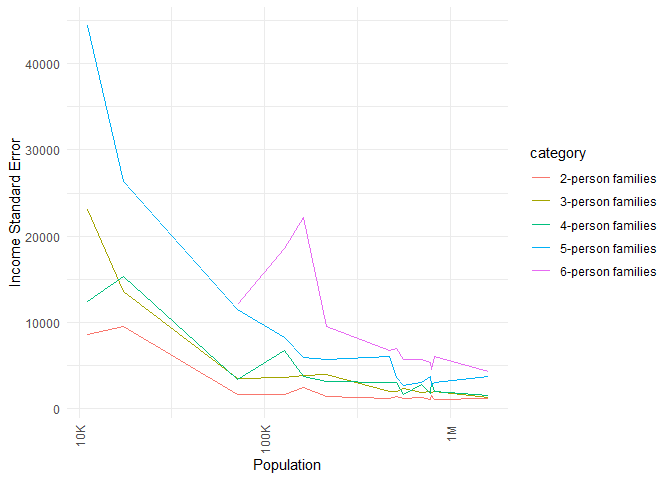
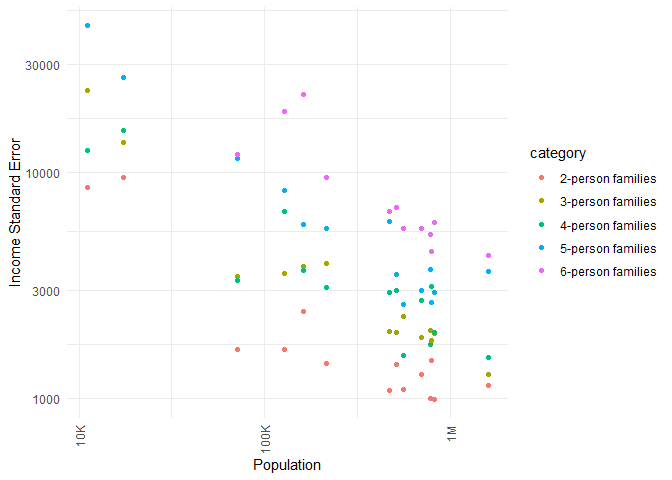
update challenge 9

diff --git a/challenges/c09-income-assignment.md b/challenges/c09-income-assignment.md
@@ -335,7 +335,7 @@ mean
 
     ## function (x, ...) 
     ## UseMethod("mean")
-    ## <bytecode: 0x0000027139a4bb38>
+    ## <bytecode: 0x0000019446bb9b28>
     ## <environment: namespace:base>
 
 Use the following tests to check your work:
@@ -498,10 +498,11 @@ df_data %>%
   ggplot(
     aes(population_estimate, income_SE, color = category)
   ) +
-  geom_line() +
+  geom_point() +
   theme_minimal() +
   guides(x =  guide_axis(angle = 90)) +
   scale_x_log10(labels = scales::label_number_si()) +
+  scale_y_log10() +
   labs(
     y = "Income Standard Error",
     x = "Population"
@@ -514,7 +515,7 @@ df_data %>%
     ## Call `lifecycle::last_lifecycle_warnings()` to see where this warning was
     ## generated.
 
-    ## Warning: Removed 2 rows containing missing values (`geom_line()`).
+    ## Warning: Removed 2 rows containing missing values (`geom_point()`).
 
 ![](c09-income-assignment_files/figure-gfm/q7-task-1.png)<!-- -->
 
@@ -526,8 +527,8 @@ df_data %>%
     with the increase of population.
 - What does this *overall* trend tell you about the relative ease of
   studying small vs large counties?
-  - It’s easier to study the smaller counties because they tend to have
-    a smaller standard error.
+  - It’s easier to study the larger counties because they tend to have a
+    smaller standard error.
 
 # Going Further
 
